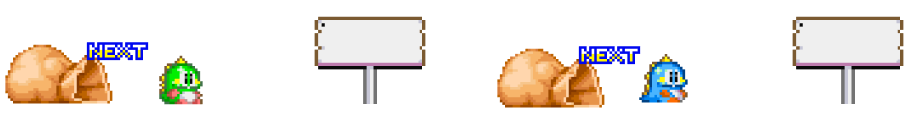
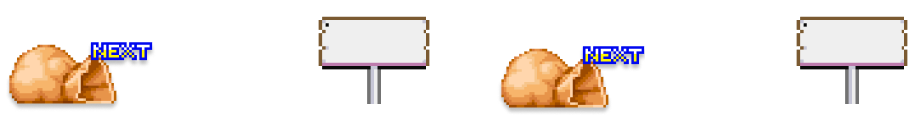
:sparkles:: 다음 구슬 미리보기

diff --git a/src/client/GameScreen.java b/src/client/GameScreen.java
@@ -54,6 +54,8 @@ class GamePanel extends JPanel implements KeyListener {
 
     private BufferedImage dd1, dd2, dd3, dd4, dd5, dd6, dd7, dd8, dd9, dd10, dd11, dd12; // 발사대 하단 이미지
     private BufferedImage gameBottom; // 게임 하단 이미지
+    private BufferedImage player1,player2; // 게임 캐릭터 이미지
+
 
     private BufferedImage b1, b2, b3, b4, b5, b6, b7; // 버블 이미지
     private double angle = 0 ; // 화살표의 현재 각도 (라디안 값)
@@ -66,9 +68,10 @@ class GamePanel extends JPanel implements KeyListener {
     private final int bubbleSpeed = 15; // 구슬의 이동 속도
 
     private double dx, dy; // 구슬의 이동 방향 멤버 변수로 ...
+    private int currentBubbleType = 1; // 현재 발사할 구슬의 타입 (1~7)
+    private int nextBubbleType = 2;    // 다음 발사할 구슬의 타입 (1~7)
 
 
-    private int currentBubbleType = 1; // 발사대 구슬의 타입 (1~7)
     private int[][] board = { // 구슬 상태를 저장하는 배열
             {1, 2, 3, 4, 5, 6, 7, 1},   // 첫 번째 줄 (8개)
             {1, 2, 3, 4, 5, 6, 7, 0},   // 두 번째 줄 (7개 + 오른쪽 빈칸)
@@ -109,10 +112,17 @@ class GamePanel extends JPanel implements KeyListener {
             b6 = ImageIO.read(getClass().getClassLoader().getResource("assets/bubble/bubble6.png"));
             b7 = ImageIO.read(getClass().getClassLoader().getResource("assets/bubble/bubble7.png"));
             gameBottom = ImageIO.read(getClass().getClassLoader().getResource("assets/game/gamebottom.png"));
+            player1 = ImageIO.read(getClass().getClassLoader().getResource("assets/player1.png"));
+            player1 = ImageIO.read(getClass().getClassLoader().getResource("assets/player2.png"));
 
             // 발사대 구슬 초기 위치 설정
             bubbleX = 212; // 발사대 중심 X 좌표
             bubbleY = 525; // 발사대 중심 Y 좌표
+
+            // 초기 구슬 타입 설정
+            currentBubbleType = (int)(Math.random() * 7) + 1;
+            nextBubbleType = (int)(Math.random() * 7) + 1;
+
 
         } catch (IOException e) {
             e.printStackTrace();
@@ -294,8 +304,8 @@ class GamePanel extends JPanel implements KeyListener {
                             bubbleX = 212;
                             bubbleY = 525;
 
-                            // 다음 구슬 타입으로 변경 (1~7 순환)
-                            currentBubbleType = (currentBubbleType % 7) + 1;
+//                            // 다음 구슬 타입으로 변경 (1~7 순환)
+//                            currentBubbleType = (currentBubbleType % 7) + 1;
                             break;
                         }
 
@@ -428,15 +438,14 @@ class GamePanel extends JPanel implements KeyListener {
         return null;
     }
 
-    // 여기에 resetBubble 메서드 추가
     private void resetBubble() {
         isBubbleMoving = false;
         bubbleX = 212;  // 발사대 중심 X 좌표
         bubbleY = 525;  // 발사대 중심 Y 좌표
-        currentBubbleType = (currentBubbleType % 7) + 1;  // 다음 구슬 타입으로 변경
+        currentBubbleType = nextBubbleType;  // 다음 구슬을 현재 구슬로
+        nextBubbleType = (int)(Math.random() * 7) + 1;  // 새로운 다음 구슬 랜덤 생성
         repaint();
     }
-
 
     private void findConnectedBubbles(int row, int col, int type, Set<Point> connected) {
         // 경계 체크 및 현재 위치가 유효한지 확인
@@ -485,6 +494,13 @@ class GamePanel extends JPanel implements KeyListener {
         // 배경 이미지 로드
         ImageIcon backgroundImage = new ImageIcon(getClass().getClassLoader().getResource("assets/game/two_player_background.png"));
         g.drawImage(backgroundImage.getImage(), 0, 0, getWidth(), getHeight(), null);
+
+        // 게임 하단 이미지 출력
+        if (gameBottom != null) {
+            int gameBottomX = 5; // 하단의 X 위치
+            int gameBottomY = 516; // 하단의 Y 위치
+            g.drawImage(gameBottom, gameBottomX, gameBottomY, null);
+        }
 
         // 구슬 배열을 기반으로 그리기
         int startX, startY = 65; // 시작 Y 위치
@@ -535,13 +551,20 @@ class GamePanel extends JPanel implements KeyListener {
             g2d.rotate(-angle, arrowX + arrowWidth / 2.0, arrowY + arrowHeight / 2.0); // 회전 복구
         }
 
+        // 다음 구슬 미리보기 출력
+        BufferedImage nextBubbleImage = getBubbleImage(nextBubbleType);
+        if (nextBubbleImage != null) {
+            g.drawImage(nextBubbleImage, 94, 579, null);  // 위치 조정
+        }
+
         // 발사대 구슬 출력
-        if (!isBubbleMoving) { // 구슬이 발사 중이 아닐 때만 출력
+        if (!isBubbleMoving) {
             BufferedImage bubbleImage = getBubbleImage(currentBubbleType);
             if (bubbleImage != null) {
                 g.drawImage(bubbleImage, bubbleX, bubbleY, null);
             }
         }
+
 
         // 발사 중인 구슬 출력
         if (isBubbleMoving) {
@@ -551,12 +574,7 @@ class GamePanel extends JPanel implements KeyListener {
             }
         }
 
-        // 게임 하단 이미지 출력
-        if (gameBottom != null) {
-            int gameBottomX = 5; // 하단의 X 위치
-            int gameBottomY = 516; // 하단의 Y 위치
-            g.drawImage(gameBottom, gameBottomX, gameBottomY, null);
-        }
+
     }
 
     // 버블 이미지를 반환하는 메서드 추가
